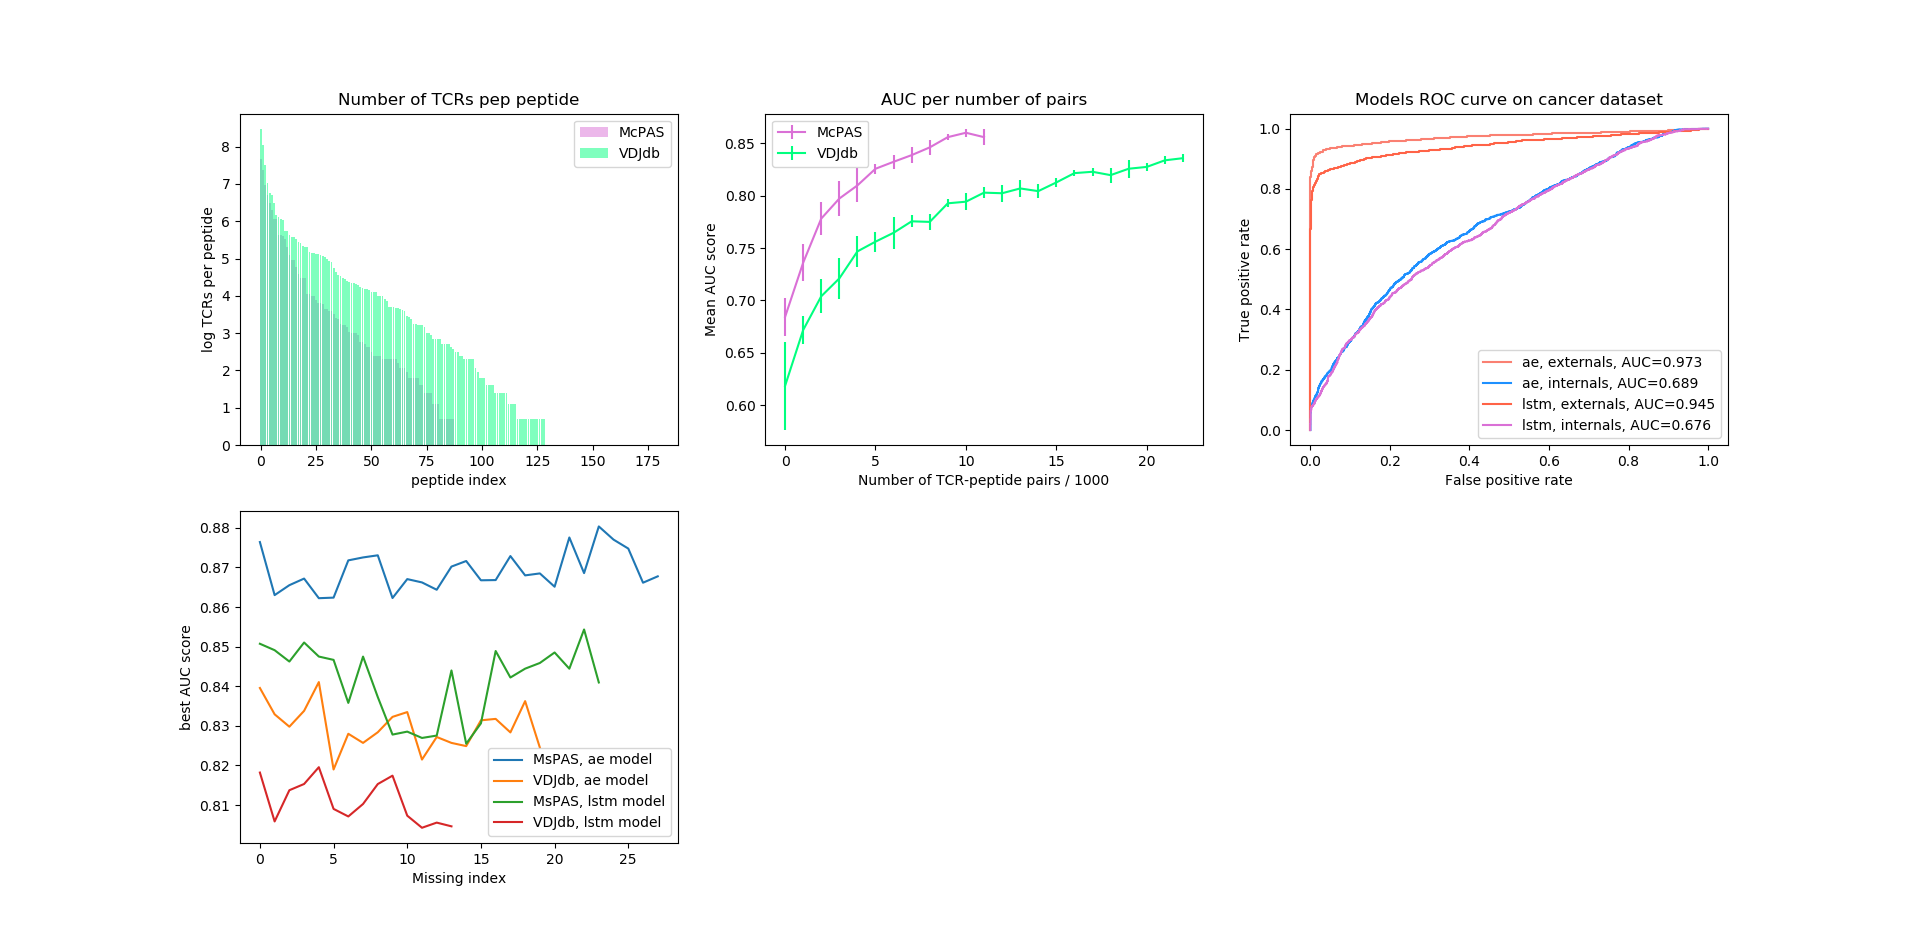
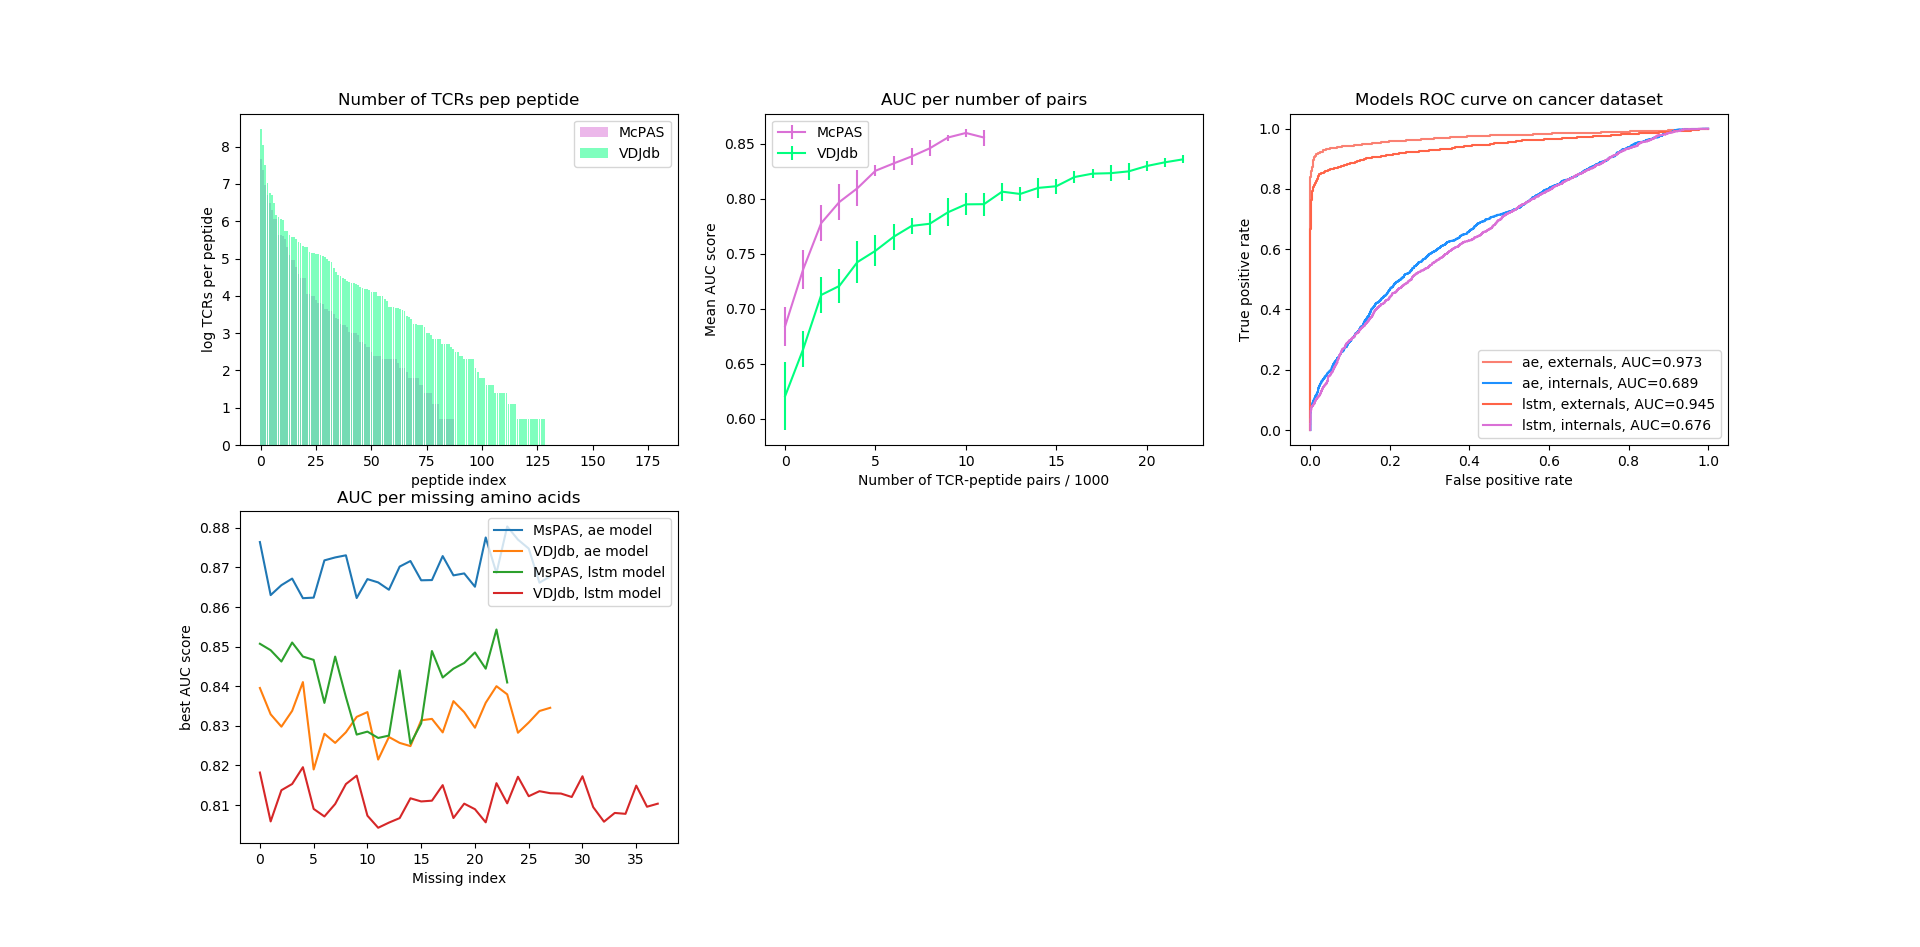
Update figures

diff --git a/plot_figure2.py b/plot_figure2.py
@@ -61,8 +61,6 @@ def subsamples_auc(ax, key1, key2, title):
         if filename.startswith('ae_' + key1 + '_test_sub'):
             sub_index = int(filename.split('_')[-1])
             iteration = int(filename.split('_')[-2])
-            if iteration > 5:
-                continue
             auc = max_auc(dir + '/' + filename)
             aucs1.append((iteration, sub_index, auc))
     max_index1 = max(t[1] for t in aucs1)
@@ -79,8 +77,6 @@ def subsamples_auc(ax, key1, key2, title):
         if filename.startswith('ae_' + key2 + '_test_sub'):
             sub_index = int(filename.split('_')[-1])
             iteration = int(filename.split('_')[-2])
-            if iteration > 0:
-                continue
             auc = max_auc(dir + '/' + filename)
             aucs2.append((iteration, sub_index, auc))
     max_index2 = max(t[1] for t in aucs2)
@@ -110,6 +106,61 @@ def plot_roc(ax, title, files, labels, colors):
     ax.legend()
 
 
+def comp_logos():
+    # image from website
+    pass
+
+
+def position_auc(ax, dkey1, dkey2, mkey1, mkey2, title):
+    dir = 'mis_pos_auc'
+    mkeys = {'ae': 0, 'lstm': 1}
+    dkeys = {'w': 0, 's': 1}
+    directory = os.fsencode(dir)
+    aucs = []
+    for file in os.listdir(directory):
+        filename = os.fsdecode(file)
+        name = filename.split('_')
+        if not len(name) is 6:
+            continue
+        mkey = name[0]
+        dkey = name[1]
+        mis = int(name[-1])
+        iteration = int(name[-2])
+        if iteration > 0:
+           continue
+        state = name[-3]
+        if state == 'test':
+            auc = max_auc(dir + '/' + filename)
+            aucs.append((mkeys[mkey], dkeys[dkey], iteration, mis, auc))
+    max_index0 = max(t[3] for t in aucs if t[0] == 0)
+    max_index10 = max(t[3] for t in aucs if t[0] == 1 and t[1] == 0)
+    max_index11 = max(t[3] for t in aucs if t[0] == 1 and t[1] == 1)
+    max_index = max(max_index0, max_index10, max_index11)
+    max_iter = max(t[2] for t in aucs)
+    auc_tensor = np.zeros((2, 2, max_iter + 1, max_index + 1))
+    for auc in aucs:
+        auc_tensor[auc[0], auc[1], auc[2], auc[3]] = auc[4]
+    auc_tensor0 = auc_tensor[0, :, :, :max_index0 + 1]
+    auc_tensor10 = auc_tensor[1, 0, :, :max_index10 + 1]
+    auc_tensor11 = auc_tensor[1, 1, :, :max_index11 + 1]
+    means0 = np.mean(auc_tensor0, axis=1)
+    std0 = np.std(auc_tensor0, axis=1)
+    means10 = np.mean(auc_tensor10, axis=0)
+    std10 = np.std(auc_tensor10, axis=0)
+    means11 = np.mean(auc_tensor11, axis=0)
+    std11 = np.std(auc_tensor11, axis=0)
+    auc_means = [means0[0], means10, means0[1], means11]
+    auc_stds = [std0[0], std10, std0[1], std11]
+    labels = ['MsPAS, ae model', 'VDJdb, ae model', 'MsPAS, lstm model', 'VDJdb, lstm model']
+    for auc_mean, auc_std, label in zip(auc_means, auc_stds, labels):
+        ax.errorbar(range(1, len(auc_mean) + 1), auc_mean, yerr=auc_std, label=label)
+    ax.legend()
+    ax.set_xlabel('Missing index')
+    ax.set_ylabel('best AUC score')
+    ax.set_title(title)
+    pass
+
+
 def main():
     fig = plt.figure(2)
     ax = fig.add_subplot(231)
@@ -123,9 +174,11 @@ def main():
              ['salmon', 'dodgerblue', 'tomato', 'orchid'])
 
     ax = fig.add_subplot(234)
-    ax.axis
+    position_auc(ax, 'w', 's', 'ae', 'lstm', 'AUC per missing amino acids')
     ax = fig.add_subplot(235)
+    ax.axis('off')
     ax = fig.add_subplot(236)
+    ax.axis('off')
     # plt.tight_layout()
     plt.show()
     pass

diff --git a/plot_figure1.py b/plot_figure1.py
@@ -234,8 +234,10 @@ def main():
              ['salmon', 'dodgerblue', 'springgreen', 'orchid'])
     ax = fig.add_subplot(234)
     tcr_length_dist_comp(ax, w, nt, 'Normalized TCR Length Distribution', normalize=True)
-    ax = fig.add_subplot(235, projection='3d')
-    amino_corr_map_comp_3d(ax, w, nt, 'tcr', 'Amino acids correlation maps difference')
+    # ax = fig.add_subplot(235, projection='3d')
+    # amino_corr_map_comp_3d(ax, w, nt, 'tcr', 'Amino acids correlation maps difference')
+    # ax = fig.add_subplot(235)
+    # amino_corr_map_comp(ax, w, nt, 'tcr', 'Amino acids correlation maps difference')
     ax = fig.add_subplot(236)
     kidera_hist7(ax, w, nt)
     plt.show()
